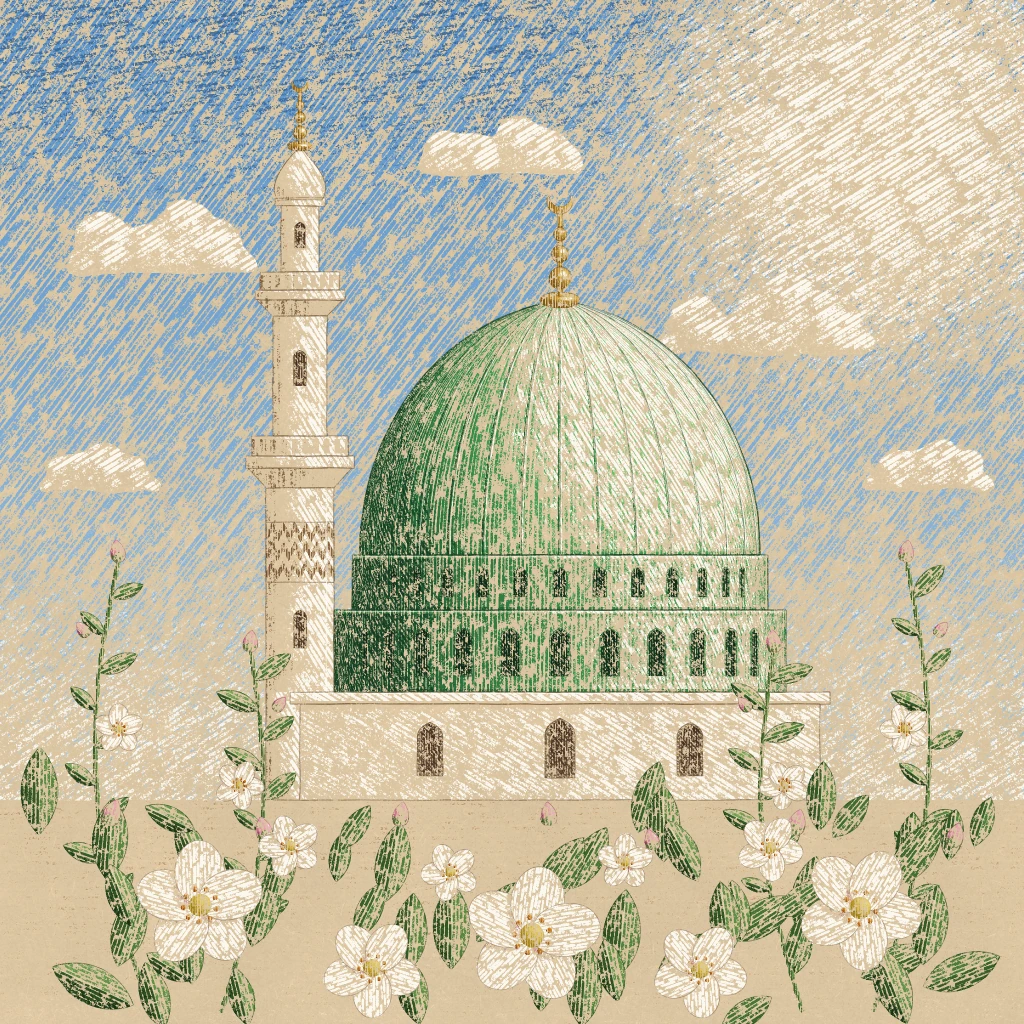
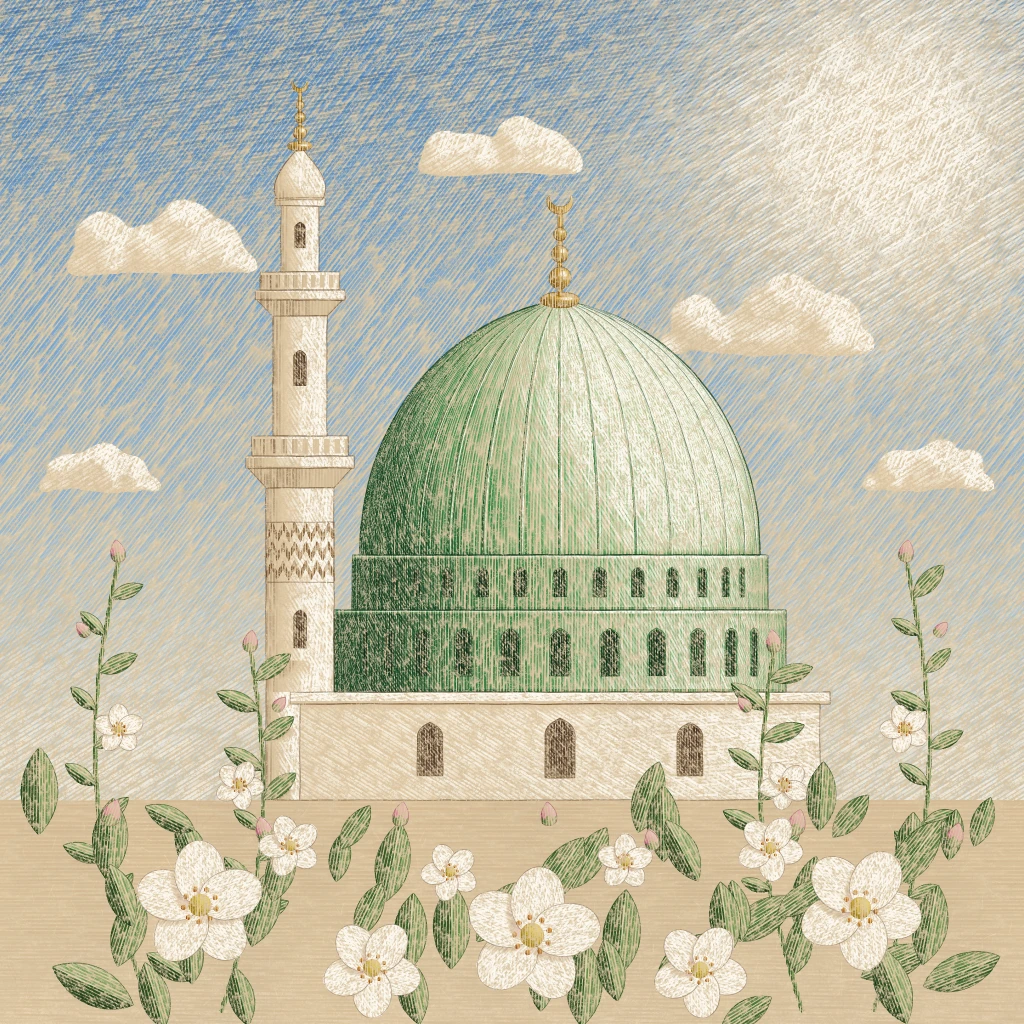
Atölye: beşinci tur gözden geçirmelerinin ara kaydı
Claude-Session: https://claude.ai/code/session_01Q8CfoBGMPN7gfLWQYpMs1J

diff --git a/atolye/stiller/S-162-sepya-kalem-ve-tinte/ornek.html b/atolye/stiller/S-162-sepya-kalem-ve-tinte/ornek.html
@@ -736,9 +736,15 @@
   });
   tint(mCarp(yarim, BM.yaprak), '#7FA674', { guc: 0.35, kenar: 0.15 });
   tint(BM.sap, '#93AE76', { guc: 0.7 });
-  tint(BM.tomurcuk, '#EDB2BC', { guc: 0.8 });
+  // çiçekler tek tip değil: gül, kayısı, leylak, limon sarısı ve krem-beyaz tinteler
+  const CTINT = ['#EFB3BF', '#F5C59A', '#D3BFEA', '#F0DC8C', '#F0DC8C', '#D3BFEA', '#EFB3BF', '#F5C59A', '#EFB3BF', '#F5C59A', '#D3BFEA', '#F0DC8C', '#F4E4D2'];
+  const TTINT = ['#EBA9B6', '#F2BE90', '#CDB6E6'];
+  for (let g = 0; g < 3; g++) tint(mCarp(yolMaske((x) => { for (const e of liste) if (e.tur === 'tomurcuk' && e.i % 3 === g) x.fill(noktaYolu(e.p)); }), BM.tomurcuk), TTINT[g], { guc: 0.85 });
   const CD = cicekUzaklik(liste);
-  tint(BM.cicek, '#F2C2CA', { guc: 0.55, kenar: 0.15, f: (x, y) => { const d = CD[y * N + x]; return sstep(0.14, 0.3, d) * (0.35 + 0.65 * (1 - sstep(0.3, 1.0, d))); } });
+  for (const renk of [...new Set(CTINT)]) {
+    const m = yolMaske((x) => { for (const e of liste) if (e.tur === 'cicek' && CTINT[e.i] === renk) { for (const t of e.taclar) x.fill(noktaYolu(t)); } });
+    tint(mCarp(m, BM.cicek), renk, { guc: renk === '#F4E4D2' ? 0.5 : 0.68, kenar: 0.2, f: (x, y) => { const d = CD[y * N + x]; return sstep(0.14, 0.3, d) * (0.45 + 0.55 * (1 - sstep(0.3, 1.05, d))); } });
+  }
   tint(yolMaske((x) => { for (const e of liste) if (e.tur === 'cicek') { x.beginPath(); x.arc(e.c.x, e.c.y, e.c.r * 0.19, 0, PI2); x.fill(); } }), '#EBC85E', { guc: 0.85 });
 
   // ================================================================ sepya kalem
@@ -784,7 +790,7 @@
   // ---- noktalama: koyuluk işlevine göre titrek ızgarada nokta; her nokta elle konmuş, biraz farklı
   const ign = (i, j) => { const v = 52.9829189 * ((((0.06711056 * i + 0.00583715 * j) % 1) + 1) % 1); return v % 1; };
   function noktala(x0, y0, x1, y1, D, o) {
-    o = Object.assign({ aralik: 2.0, r: 0.55, yogun: 1, us: 1.1 }, o);
+    o = Object.assign({ aralik: 2.5, r: 0.78, yogun: 1, us: 1.0 }, o);
     const a = o.aralik;
     for (let j = Math.floor(y0 / a); j * a < y1; j++) for (let i = Math.floor(x0 / a); i * a < x1; i++) {
       const px = (i + 0.5 + (hashF(i, j, 5) - 0.5) * 0.75) * a, py = (j + 0.5 + (hashF(i, j, 9) - 0.5) * 0.75) * a;
@@ -806,31 +812,33 @@
     if (bolgeAd(x, y) !== 'kubbe') return 0;
     const l = kubbeIsik(x, y);
     const f = dilim(x, y);
-    return clamp((0.66 - l) * 1.4, 0, 0.9) + 0.24 * Math.pow(1 - f, 3) * (0.4 + 0.6 * (1 - l)) + 0.28 * sstep(536, 554, y);
-  }, { aralik: 1.9 });
+    return clamp((0.74 - l) * 1.55, 0, 0.92) + 0.3 * Math.pow(1 - f, 3) * (0.35 + 0.65 * (1 - l)) + 0.3 * sstep(532, 554, y);
+  }, { aralik: 2.45 });
   noktala(330, 555, 790, 692, (x, y) => {
     if (bolgeAd(x, y) !== 'kasnak') return 0;
     const u = cylU(x, y);
-    return clamp((0.6 - silindirIsik(u)) * 1.3, 0, 0.8) + (y < 568 ? 0.55 * sstep(568, 556, y) : 0) + (y >= 610 && y < 620 ? 0.4 * sstep(620, 611, y) : 0);
-  }, { aralik: 2.2 });
+    return clamp((0.7 - silindirIsik(u)) * 1.4, 0, 0.85) + (y < 570 ? 0.6 * sstep(570, 556, y) : 0) + (y >= 610 && y < 622 ? 0.45 * sstep(622, 611, y) : 0);
+  }, { aralik: 2.5 });
   noktala(240, 140, 360, 800, (x, y) => {
     if (bolgeAd(x, y) !== 'minare' || (x >= 289 && y >= 691.5)) return 0;
     const u = (x - 300) / mYari(y);
-    let d = 0.62 * sstep(-0.12, -0.92, u);
+    let d = 0.18 + 0.62 * sstep(-0.05, -0.92, u);
     if ((y > 468 && y < 494) || (y > 300 && y < 321) || (y > 206 && y < 214)) d += 0.45;
     if ((y > 436 && y < 442) || (y > 272 && y < 277)) d += 0.3;
     return d;
-  }, { aralik: 2.0 });
+  }, { aralik: 2.4 });
   noktala(288, 690, 832, 800, (x, y) => {
     if (bolgeAd(x, y) !== 'kaide') return 0;
-    let d = 0.16 * sstep(340, 300, x);
-    if (y >= 704 && y < 718) d += 0.6 * sstep(718, 705, y);
+    let d = 0.34 * sstep(380, 300, x) + 0.08;
+    if (y >= 704 && y < 720) d += 0.62 * sstep(720, 705, y);
     return d;
-  }, { aralik: 2.2 });
+  }, { aralik: 2.5 });
   // pencere ve nişlerin içi: sık noktalama
-  noktala(240, 200, 840, 800, (x, y) => (bolgeAd(x, y) === 'pencere' ? 0.6 : 0), { aralik: 1.8 });
+  noktala(240, 200, 840, 800, (x, y) => (bolgeAd(x, y) === 'pencere' ? 0.7 : 0), { aralik: 2.0, r: 0.7 });
   // zemin: yapının dibinde sola düşen gölge, seyrek noktalar
-  noktala(180, 800, 300, 820, (x, y) => (bolgeAd(x, y) !== 'zemin' ? 0 : 0.5 * sstep(816, 801, y) * sstep(180, 240, x)), { aralik: 2.0 });
+  noktala(180, 800, 300, 822, (x, y) => (bolgeAd(x, y) !== 'zemin' ? 0 : 0.55 * sstep(820, 801, y) * sstep(180, 240, x)), { aralik: 2.4 });
+  // zemin: kumun sabırlı, seyrek noktalaması (ufka doğru sıklaşır)
+  noktala(0, 801, 1024, 1024, (x, y) => (bolgeAd(x, y) !== 'zemin' ? 0 : 0.2 * (1 - sstep(800, 1000, y)) * (0.55 + 0.9 * nf(x / 60, y / 25))), { aralik: 3.0, r: 0.72 });
   // ---- kısa taramalar: kubbenin gölge kenarında meridyen boyunca, korniş altında, pencerelerde
   const kubbeX = (b, y) => 560 + Math.sin(b) * kubbeR(y);
   for (let k = 0; k < 16; k++) {
@@ -872,7 +880,7 @@
   }
 
   // ---- yapı konturu
-  const yapW = { kubbe: 1.35, kaburga: 0.72, kasnak: 1.2, kasnakH: 1.1, pencere: 0.8, nis: 0.7, kornis: 1.1, kaide: 1.2, kpencere: 0.95, mgovde: 1.15, zikzak: 0.9, cikma: 1.0, serefe: 1.0, korkuluk: 0.9, parmak: 0.75, bilezik: 0.9, topuz: 1.05, mpencere: 0.85 };
+  const yapW = { kubbe: 1.75, kaburga: 0.95, kasnak: 1.5, kasnakH: 1.4, pencere: 1.0, nis: 0.85, kornis: 1.4, kaide: 1.5, kpencere: 1.2, mgovde: 1.45, zikzak: 1.1, cikma: 1.25, serefe: 1.25, korkuluk: 1.1, parmak: 0.9, bilezik: 1.1, topuz: 1.3, mpencere: 1.05 };
   for (const e of yapiCizgileri()) {
     const w = yapW[e.tur] || 1;
     if (e.tur === 'kaburga') {

diff --git a/atolye/stiller/S-192-kraft-kagitta-renkli-kalem/ornek.html b/atolye/stiller/S-192-kraft-kagitta-renkli-kalem/ornek.html
@@ -861,7 +861,8 @@
   }
   // ---------------------------------------------------------------- renkli kalem + beyaz kalem
   // Her katın basıncı (0..1) ışık değerinden gelir; kalem yalnız basıncın yettiği diş tepelerine tutunur.
-  const dep = (q, d) => sstep(0.0, 0.3, q - (1 - d) * 0.66);
+  // yarı saydam mumlu kalem: basınçla artan örtü, diş tepelerinde daha çok pigment
+  const dep = (q, d) => clamp(q * 1.3, 0, 1) * (0.28 + 0.72 * sstep(0.12, 0.72, d + q * 0.25));
   const OR = new Float32Array(NN), OG = new Float32Array(NN), OB = new Float32Array(NN);
   const kb = hex('#FCF9F1'), kmavi = hex('#C9DDEB');
   const gx = SAHNE.gunes.x, gy = SAHNE.gunes.y;
@@ -885,57 +886,58 @@
       w = 0.06 + 0.5 * ufuk * ufuk + 0.95 * gunes;
       if (bu > 0) w = w * (1 - bu) + bu * (0.18 + 0.82 * Math.pow(bi, 1.4));
       wu = -x * sw + y * cw; wv = x * cw + y * sw;
-      ar = 10; boy = 120;
+      ar = 7.2; boy = 130;
     } else if (tip === T_ZEMIN) {
       // çıplak kraft; ufka yakın ve bitki gölgesinde birkaç yatay sepya tarama
       const t = (Y - 800) / 224;
       c1 = 0.22 * (0.6 + 0.4 * (1 - t));
       w = 0.12 * sstep(0.2, 1, t);
-      ar = 10; boy = 140;
+      ar = 7.5; boy = 150;
       const ca = Math.cos(0.05), sa = Math.sin(0.05);
       wu = -x * sa + y * ca; wv = x * ca + y * sa;
     } else if (tip === T_KUBBE || tip === T_KASNAK) {
       c1 = 0.6 + 0.4 * sstep(0.85, 0.2, lt);
       c2 = sstep(0.5, 0.12, lt) * 0.95;
       w = sstep(0.58, 0.95, lt) * 0.95;
-      ar = tip === T_KUBBE ? 9 : 8; boy = tip === T_KUBBE ? 110 : 60;
+      ar = tip === T_KUBBE ? 6.6 : 6; boy = tip === T_KUBBE ? 120 : 60;
       wu = fu * cw + fv * sw; wv = -fu * sw + fv * cw;
     } else if (TAS.has(tip)) {
       // taş: gölgeler kâğıtta; sepya yalnız koyu yerlerde, ışık beyaz kalemle
       c1 = sstep(0.5, 0.15, lt) * 0.75;
       w = sstep(0.42, 0.9, lt) * 0.98;
-      ar = 8.5; boy = 80;
+      ar = 6.4; boy = 80;
       wu = fu * cw + fv * sw; wv = -fu * sw + fv * cw;
     } else if (tip === T_YAPRAK || tip === T_TOMURCUK) {
       c1 = 0.72 + 0.28 * sstep(0.8, 0.25, lt);
       c2 = sstep(0.45, 0.15, lt) * 0.8;
       w = sstep(0.8, 1.0, lt) * 0.45;
-      ar = 7.5; boy = 44;
+      ar = 5.6; boy = 48;
       wu = fu * cw + fv * sw; wv = -fu * sw + fv * cw;
     } else if (tip === T_TAC) {
       c1 = sstep(0.72, 0.4, lt) * 0.6;
       w = 0.42 + 0.58 * sstep(0.45, 0.88, lt);
-      ar = 7; boy = 36;
+      ar = 5.4; boy = 40;
       wu = fu; wv = fv;
     } else if (KUCUK.has(tip)) {
       c1 = 0.95; c2 = tip === T_MPENC || tip === T_KPENC || tip === T_KASPENC ? 0.7 : 0;
       w = tip === T_ALTIN || tip === T_HILAL ? sstep(0.7, 1, lt) * 0.8 : 0;
       ar = 5; boy = 30;
     }
-    const a = tarama(fu, fv, ar, boy, 0.52, 51);
+    const a = tarama(fu, fv, ar, boy, 0.46, 51);
     let fr = PR[i], fg = PG[i], fb = PB[i];
     if (c1 > 0) {
       const k = dep(a * c1, d) * (KUCUK.has(tip) ? 1 : 0.94);
       fr += (r - fr) * k; fg += (g - fg) * k; fb += (bl - fb) * k;
     }
     if (c2 > 0) {
-      const b = tarama(fu * cx2 + fv * sx2, -fu * sx2 + fv * cx2, ar * 1.1, boy * 0.8, 0.48, 52);
+      const b = tarama(fu * cx2 + fv * sx2, -fu * sx2 + fv * cx2, ar * 1.1, boy * 0.8, 0.44, 52);
       const k = dep(b * c2, d) * 0.85;
       const dr = r * 0.62, dgc = g * 0.66, db = bl * 0.7;
       fr += (dr - fr) * k; fg += (dgc - fg) * k; fb += (db - fb) * k;
     }
     if (w > 0) {
-      const t = tarama(wu, wv, ar * 1.05, boy * 0.9, 0.5, 53);
+      let t = tarama(wu, wv, ar * 1.05, boy * 0.9, 0.46, 53);
+      if (w > 0.55) t = Math.max(t, tarama(wu * 0.8 + wv * 0.6, -wu * 0.6 + wv * 0.8, ar * 1.1, boy * 0.8, 0.44, 54) * sstep(0.55, 0.9, w));
       const k = dep(t * w, d) * 0.97;
       // gökte ufka yakın beyaz kalem hafif mavimsi (iki kalemin karışımı)
       const c = tip === T_GOK && BUL[i] < 0.3 ? kmavi : kb;

diff --git a/atolye/stiller/S-185-firca-kontur-ve-guaj/ornek.html b/atolye/stiller/S-185-firca-kontur-ve-guaj/ornek.html
@@ -650,11 +650,14 @@
         const q = titret(q0, o.gen === undefined ? 0.4 : o.gen, o.dalga || 40, nI, faz, false);
         const L = uzunluk(q);
         const bas = Math.min(o.bas || 6, L * 0.3), son = Math.min(o.son || 11, L * 0.42);
-        const yonEtki = o.yonEtki === undefined ? 0.72 : o.yonEtki;
+        const yonEtki = o.yonEtki === undefined ? 0.8 : o.yonEtki;
+        // ana biçimlerde fırça daha dolu tutulur: kalın çizgiler orantısız kalınlaşır, ince ayrıntı ince kalır
+        const W = w * (1 + 0.5 * sstep(1.5, 3.3, w));
         cizgi(ctx, q, (t, a, s) => {
           const yon = 1 - yonEtki + yonEtki * Math.abs(Math.sin(a - PHI));
-          const giris = 0.3 + 0.7 * sstep(0, bas, s), cikis = 0.12 + 0.88 * sstep(0, son, L - s);
-          return w * 1.15 * yon * Math.min(giris, cikis) * (0.86 + 0.28 * nI(s / 45 + faz, 4.4));
+          const giris = 0.25 + 0.75 * sstep(0, bas, s), cikis = 0.08 + 0.92 * sstep(0, son, L - s);
+          const basinc = 0.72 + 0.5 * Math.sin(Math.PI * clamp(s / L, 0, 1)); // sürüşün ortasında fırça şişer
+          return W * 1.15 * yon * basinc * Math.min(giris, cikis) * (0.86 + 0.28 * nI(s / 45 + faz, 4.4));
         }, o.renk || rgba(P.fir, 0.95));
       }
     }
